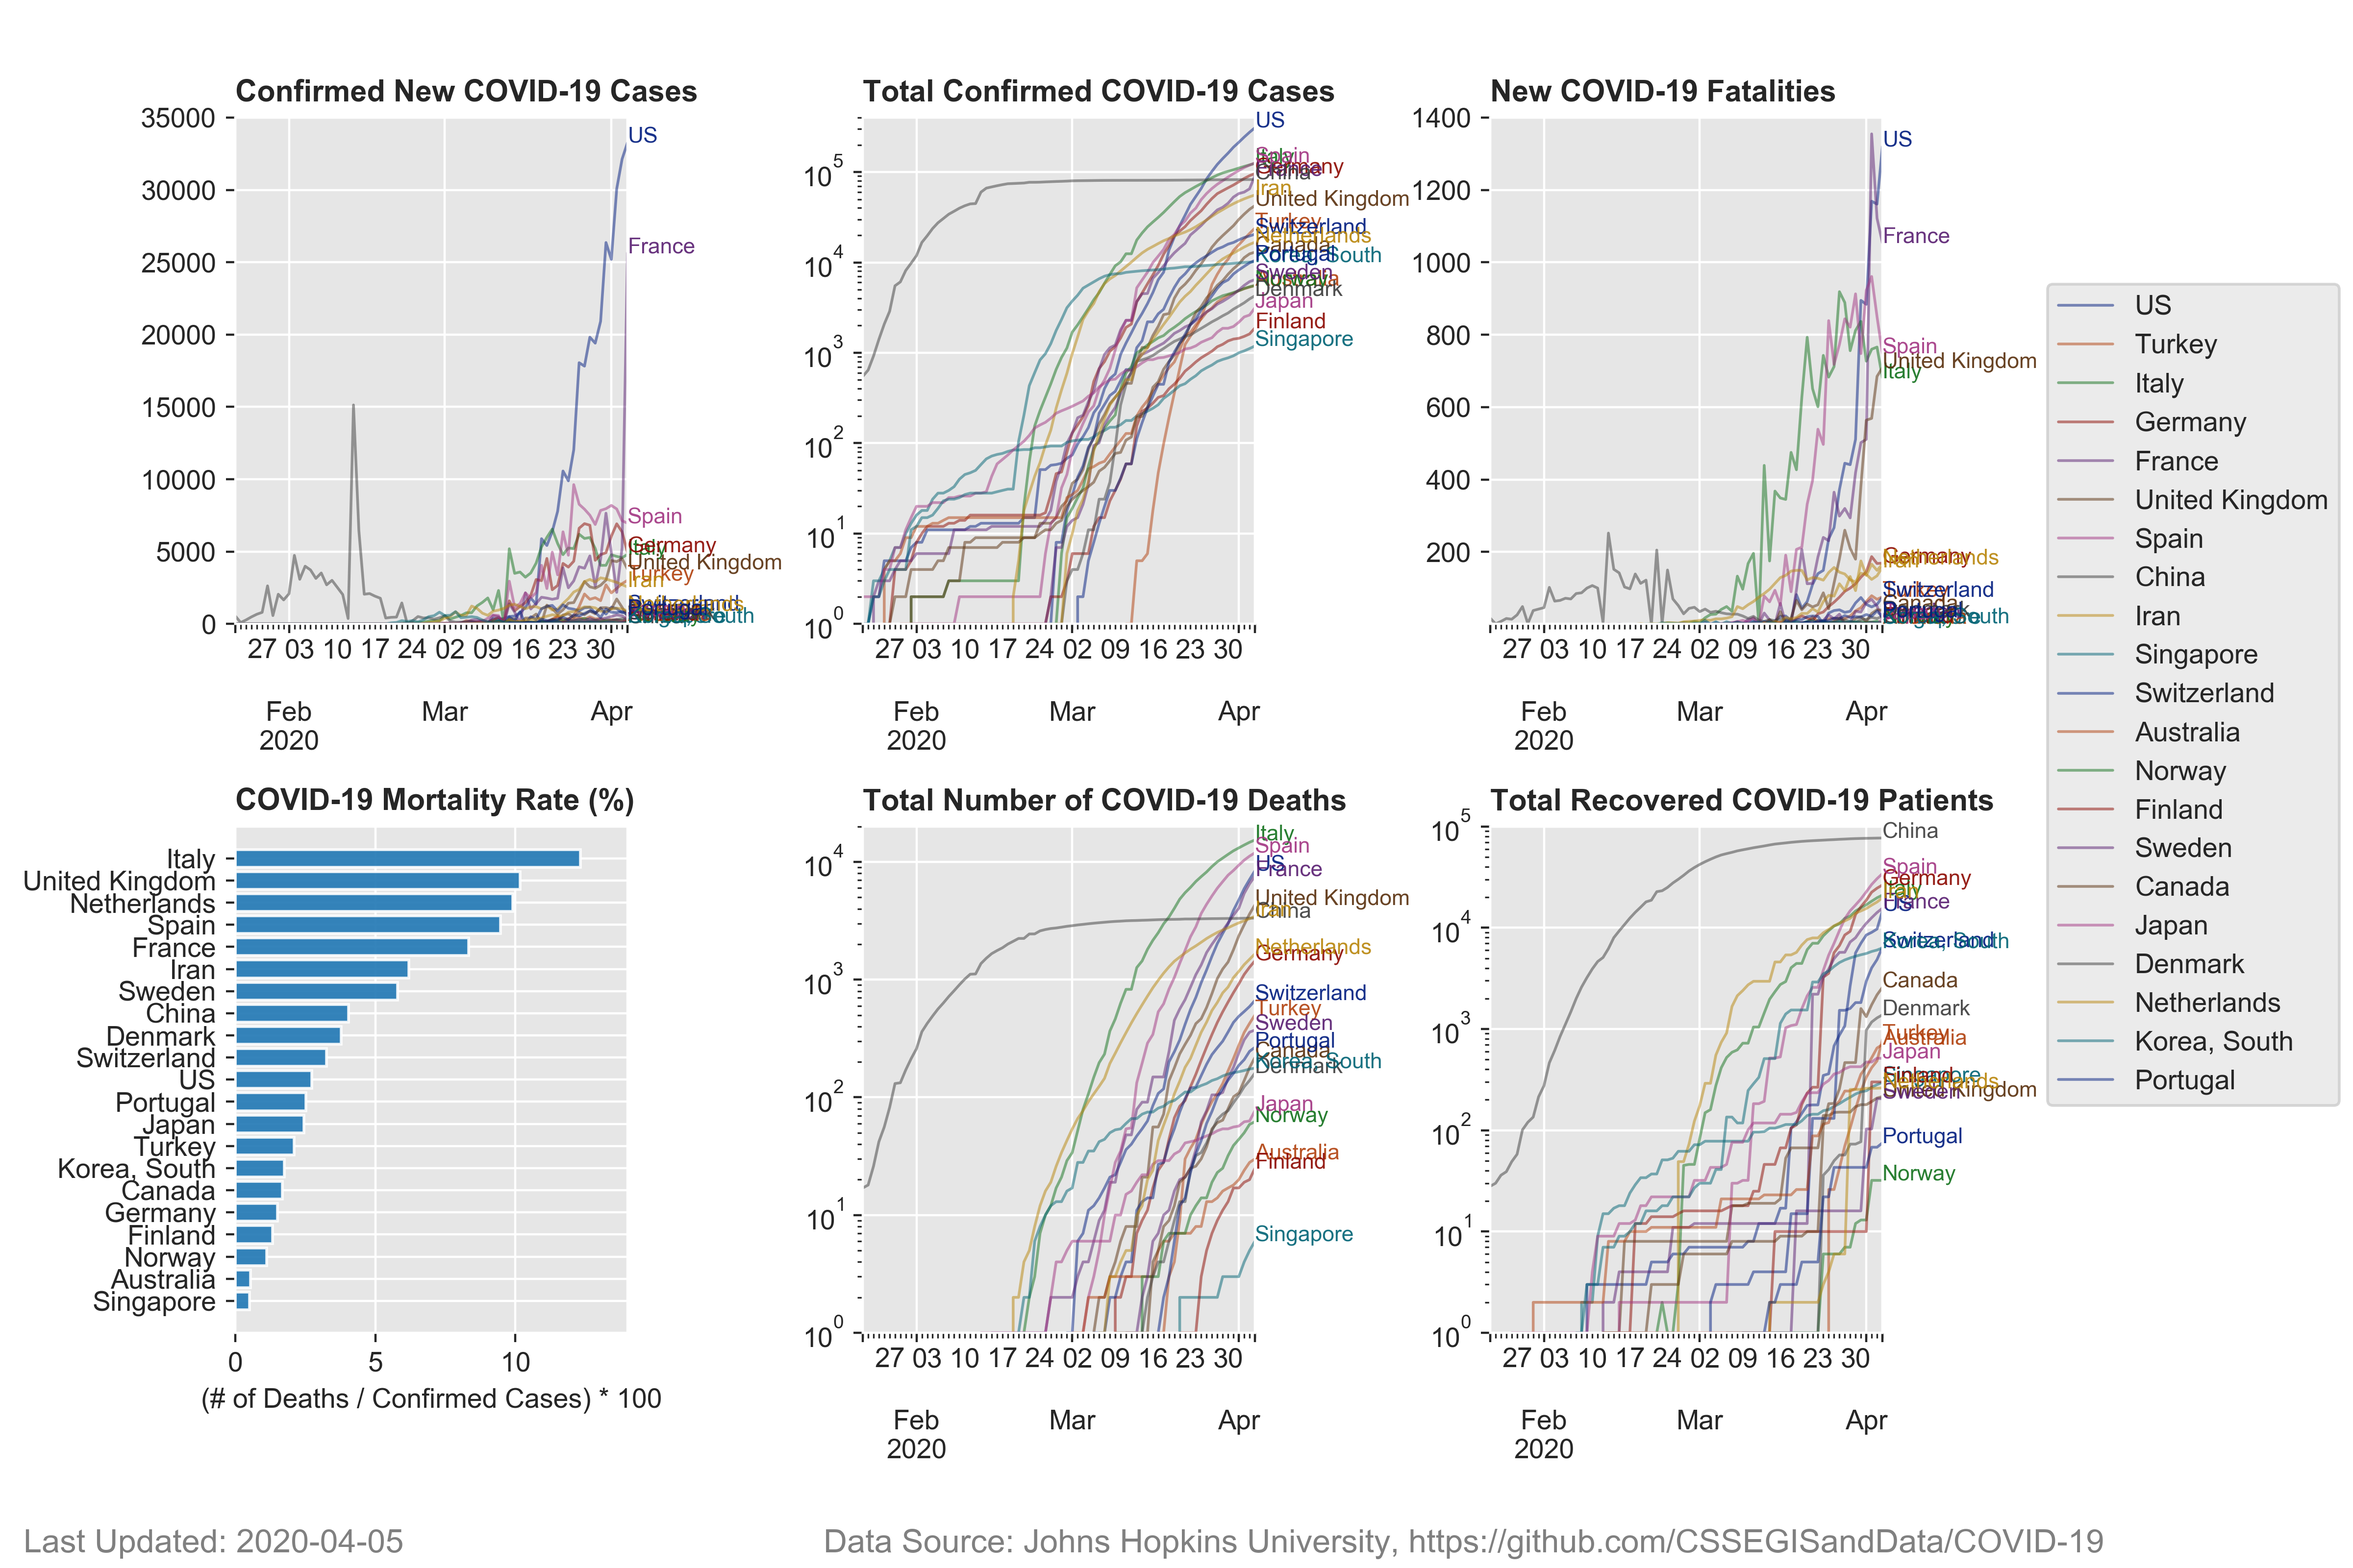
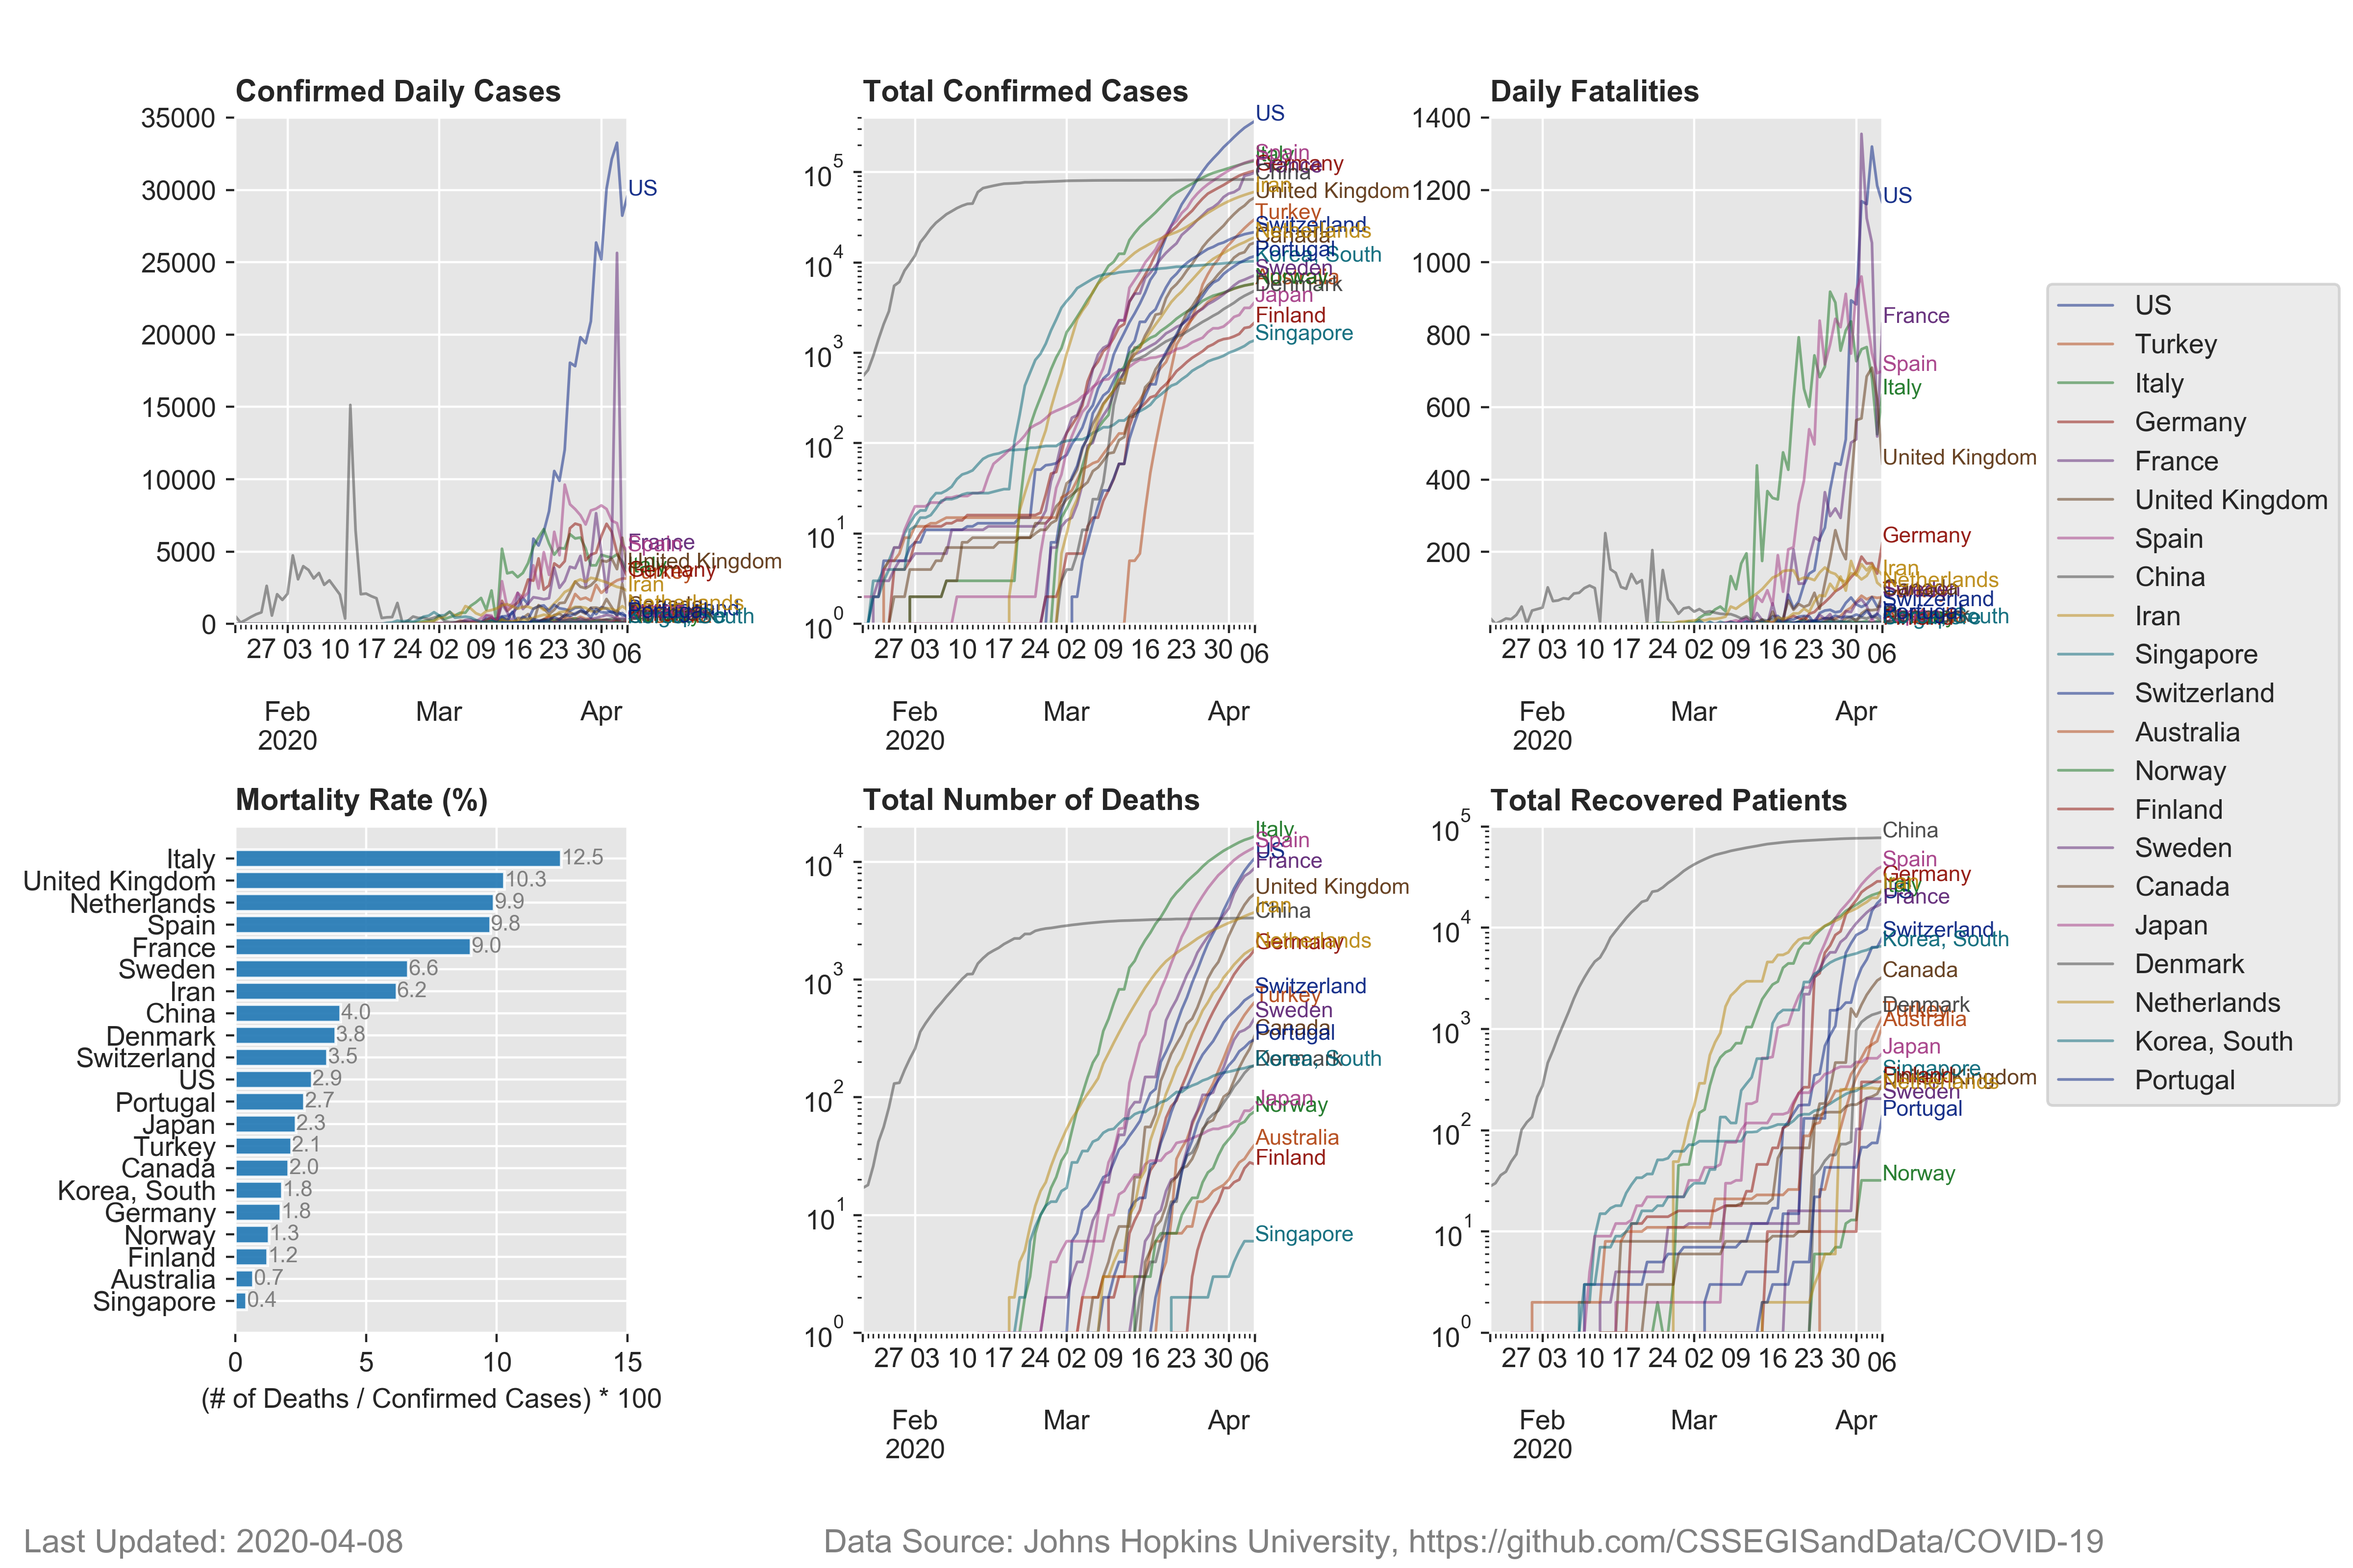
new daily data

diff --git a/plotter_covid.py b/plotter_covid.py
@@ -132,7 +132,7 @@ ax1 = plt.subplot(231)
 confirmed_new_df.plot(
 	# logy=True,
 	ax=ax1,alpha=0.5,ylim=[1,35000],xlim=[confirmed_new_df.index[0],confirmed_new_df.index[-1]],color=color,legend=False,linewidth=1)
-plt.title('Confirmed New COVID-19 Cases', loc='left', fontweight='bold',fontsize=11)
+plt.title('Confirmed Daily Cases', loc='left', fontweight='bold',fontsize=11)
 ax1.get_xaxis().tick_bottom()
 ax1.get_yaxis().tick_left()
 for i,item in enumerate(confirmed_new_df.keys()):
@@ -142,7 +142,7 @@ ax2 = plt.subplot(232)
 confirmed_df.plot(
 	logy=True,
 	ax=ax2,alpha=0.5,ylim=[1,400000],xlim=[confirmed_df.index[0],confirmed_df.index[-1]],color=color,legend=False,linewidth=1)
-plt.title('Total Confirmed COVID-19 Cases', loc='left', fontweight='bold',fontsize=11)
+plt.title('Total Confirmed Cases', loc='left', fontweight='bold',fontsize=11)
 ax2.get_xaxis().tick_bottom()
 ax2.get_yaxis().tick_left()
 for i,item in enumerate(confirmed_df.keys()):
@@ -152,7 +152,7 @@ ax3 = plt.subplot(233)
 death_new_df.plot(
 	# logy=True,
 	ax=ax3,alpha=0.5,ylim=[1,1400],xlim=[death_new_df.index[0],death_new_df.index[-1]],color=color,legend=False,linewidth=1)
-plt.title('New COVID-19 Fatalities', loc='left', fontweight='bold',fontsize=11)
+plt.title('Daily Fatalities', loc='left', fontweight='bold',fontsize=11)
 ax3.get_xaxis().tick_bottom()
 ax3.get_yaxis().tick_left()
 for i,item in enumerate(death_new_df.keys()):
@@ -161,17 +161,19 @@ for i,item in enumerate(death_new_df.keys()):
 ax4 = plt.subplot(234)
 plt.barh(barPos_p, data[sorted_idx_p],alpha=0.9)
 plt.yticks(barPos_p, sc[sorted_idx_p])
-plt.title('COVID-19 Mortality Rate (%)', loc='left', fontweight='bold',fontsize=11)
+plt.title('Mortality Rate (%)', loc='left', fontweight='bold',fontsize=11)
 ax4.get_xaxis().tick_bottom()
 ax4.get_yaxis().tick_left()
-plt.xlim([0,14])
+plt.xlim([0,15])
 plt.xlabel('(# of Deaths / Confirmed Cases) * 100')
+for i,item in enumerate(data[sorted_idx_p]):
+	plt.text(item,i,str(round(item,1)),verticalalignment='center',fontsize=8,color='gray')
 
 ax5 = plt.subplot(235)
 death_df.plot(
 	logy=True,
 	ax=ax5,alpha=0.5,ylim=[1,20000],xlim=[death_df.index[0],death_df.index[-1]],color=color,legend=False,linewidth=1)
-plt.title('Total Number of COVID-19 Deaths', loc='left', fontweight='bold',fontsize=11)
+plt.title('Total Number of Deaths', loc='left', fontweight='bold',fontsize=11)
 ax5.get_xaxis().tick_bottom()
 ax5.get_yaxis().tick_left()
 for i,item in enumerate(death_df.keys()):
@@ -181,7 +183,7 @@ ax6 = plt.subplot(236)
 recovered_df.plot(
 	logy=True,
 	ax=ax6,alpha=0.5,ylim=[1,100000],xlim=[recovered_df.index[0],confirmed_df.index[-1]],color=color,legend=False,linewidth=1)
-plt.title('Total Recovered COVID-19 Patients', loc='left', fontweight='bold',fontsize=11)
+plt.title('Total Recovered Patients', loc='left', fontweight='bold',fontsize=11)
 ax6.get_xaxis().tick_bottom()
 ax6.get_yaxis().tick_left()
 for i,item in enumerate(recovered_df.keys()):

diff --git a/README.md b/README.md
@@ -19,7 +19,7 @@
 
 ![confirmed_trend](confirmed.gif) 
 
- ## Case Plots (\%)
+ ## Case Plots
  
  Series of plots monitoring COVID-19
 
